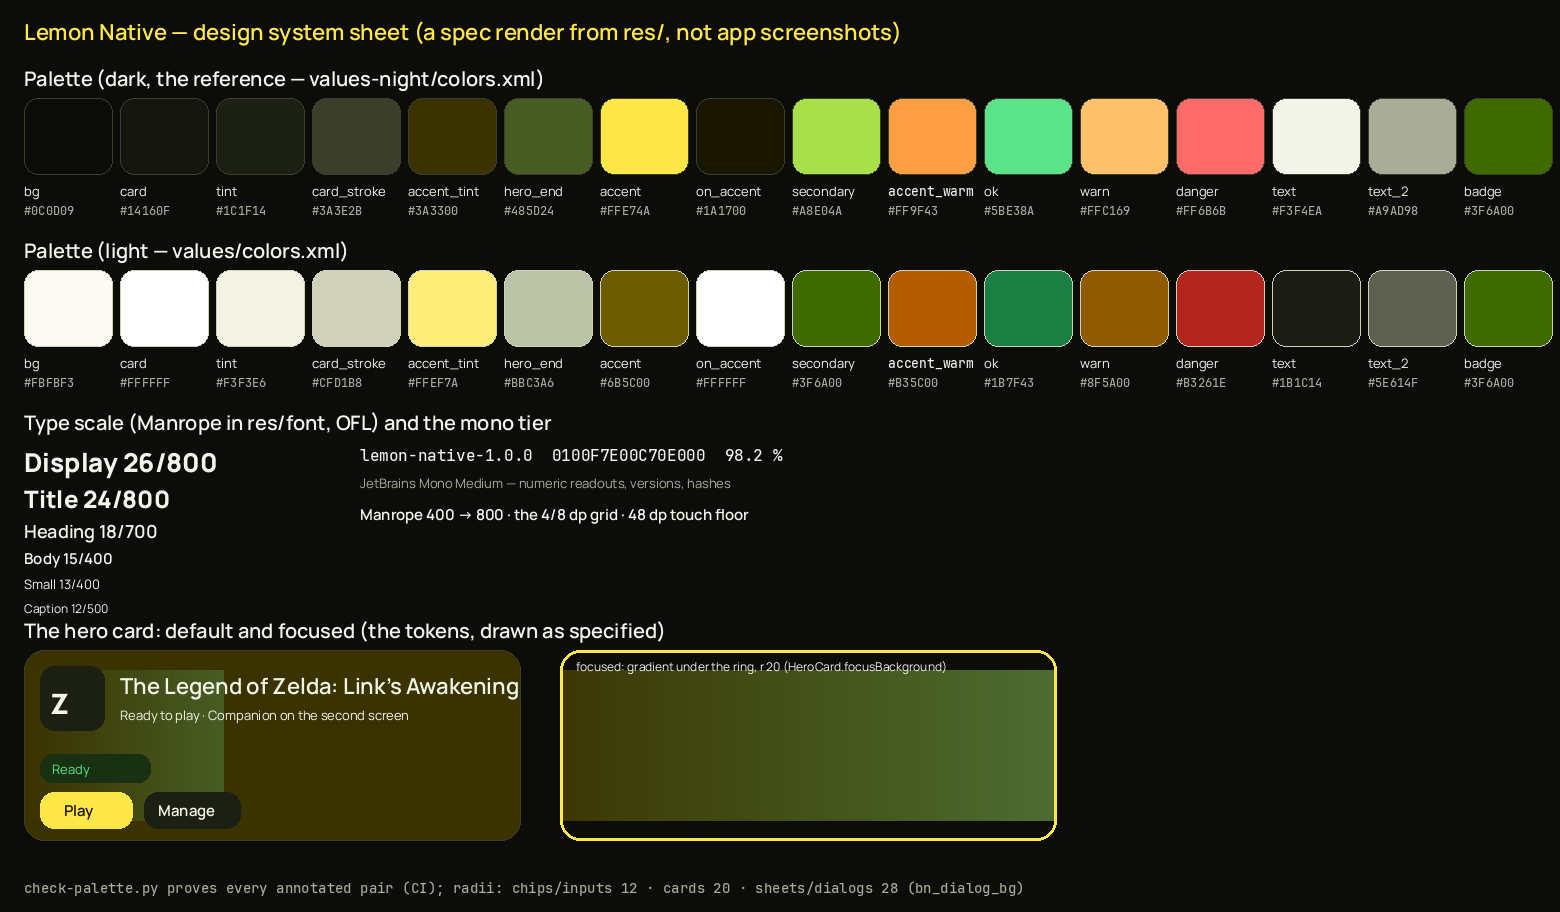
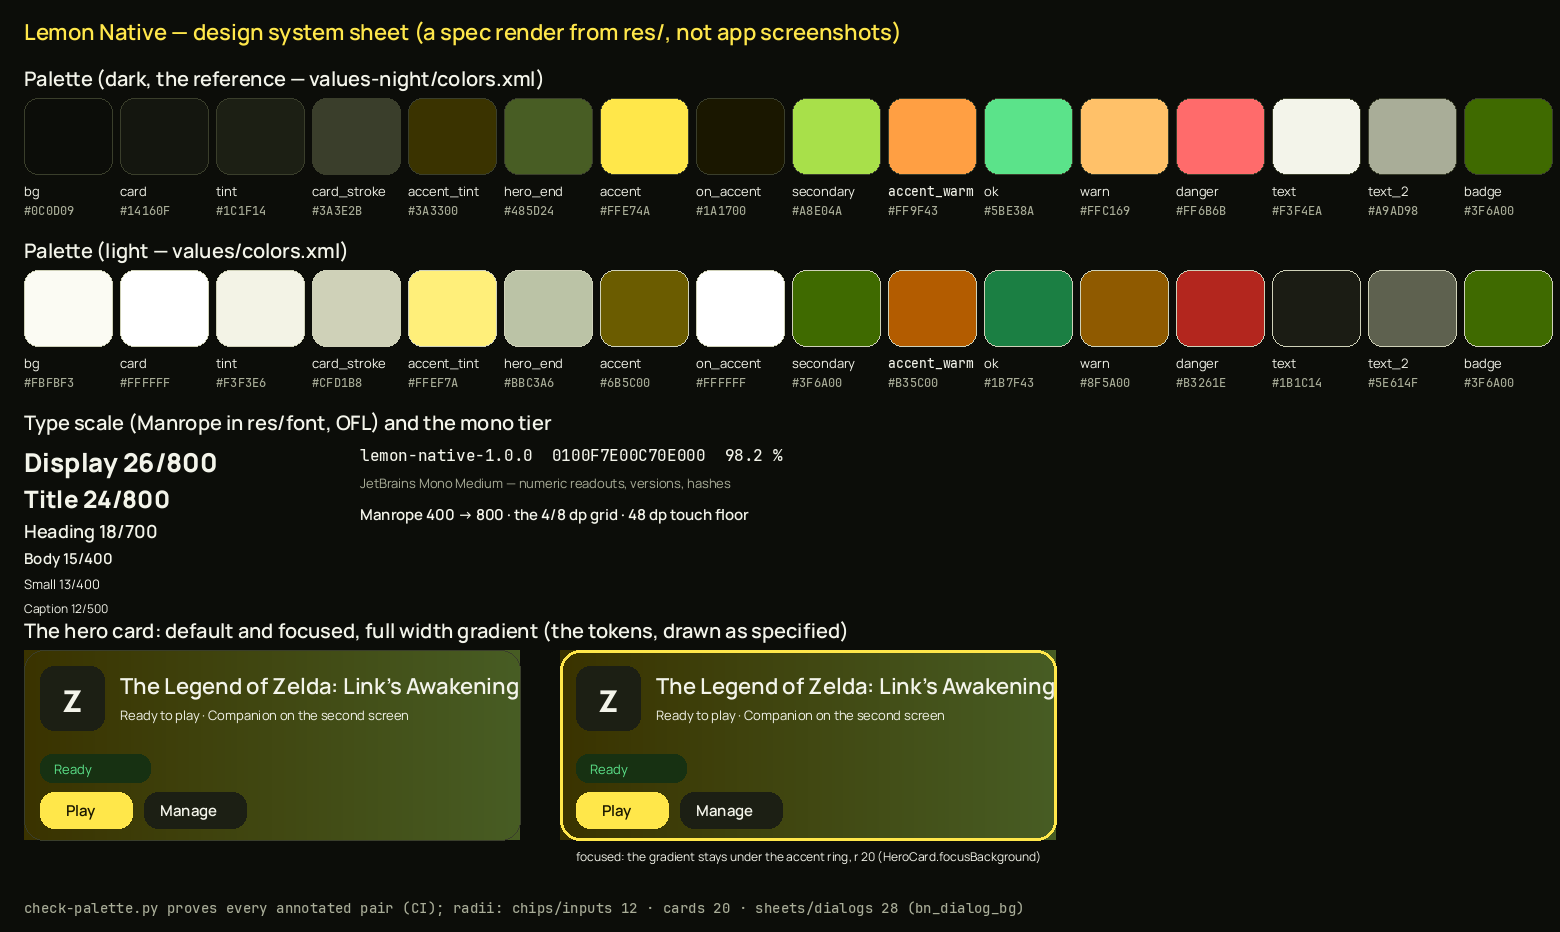
ui(round-04): the sheet is faithful and cited, the dark annotation matches the checker
- docs/images/lemon-design-sheet.png regenerated: the hero mock now draws the full-width gradient and the
  complete card in BOTH states (round 3's Grave — the ramp covered a fifth of the card and the focused
  card had no content); the sheet stays a spec render from the palette resources and the shipped fonts
- the sheet is cited where the round-3 commit claimed it would be: DESIGN-ui section 4 and
  docs/design-system.md name it as this environment's visual evidence (a spec render, not app screenshots)
- bn_hero_end's dark annotation says 6.6:1 (the checker's number); DESIGN-ui's dark bn_secondary row states
  the leaf-end's hue source role; DESIGN-ui section 4 now enounces the no-direct-label-on-the-gradient rule
- HeroCard.focusBackground builds a second gradient instance for the focused layer, so the two states
  never share a drawable
- scorecard: the round-3 row lands with its runs; the round-3 Critic report is recorded verbatim

diff --git a/android/app/src/main/java/dev/peanuts/ui/components/HeroCard.java b/android/app/src/main/java/dev/peanuts/ui/components/HeroCard.java
@@ -99,8 +99,12 @@ public final class HeroCard {
         android.graphics.drawable.GradientDrawable ring = new android.graphics.drawable.GradientDrawable();
         ring.setCornerRadius(PUi.dp(a, Tokens.RADIUS_LG));
         ring.setStroke(PUi.dp(a, 3), PUi.col(a, R.color.bn_accent));
+        android.graphics.drawable.GradientDrawable body = new android.graphics.drawable.GradientDrawable(
+                android.graphics.drawable.GradientDrawable.Orientation.TL_BR,
+                new int[]{PUi.col(a, R.color.bn_accent_tint), PUi.col(a, R.color.bn_hero_end)});   // a second instance: the two states never share a drawable
+        body.setCornerRadius(PUi.dp(a, Tokens.RADIUS_LG));
         android.graphics.drawable.LayerDrawable focused = new android.graphics.drawable.LayerDrawable(
-                new android.graphics.drawable.Drawable[]{g, ring});
+                new android.graphics.drawable.Drawable[]{body, ring});
         android.graphics.drawable.StateListDrawable s = new android.graphics.drawable.StateListDrawable();
         s.addState(new int[]{android.R.attr.state_focused}, focused);
         s.addState(new int[0], g);

diff --git a/docs/ui-scorecard.md b/docs/ui-scorecard.md
@@ -8,7 +8,8 @@ per round (build-apk.yml = the APK, peanuts.yml = the fork's checks + the palett
 |---|---|---|---|---|---|
 | 0 (baseline) | `3647c8c` rebrand | — (no UI round: the renamed upstream, CI baseline) | — | build-apk: fixed after 44924410924's compile error (Signer brace) and 44924993648's res/font license error, then green (job 44926143837's "GPL APK", 5m55s; the run stays open 1 h by the expire job by design); peanuts green (44924993605) | — |
 | 1 | `2d2eba7` + `24fdea1` (compile fix, brief 7.1) | **6.9** (média ponderada recomputada pelo Crítico) | nenhum (< 5: não houve) |
-| 2 | `31507a7` + `0e86711` (compile fix, brief 7.1) | **7.4** (Δ +0.5) | nenhum (mínimo 6.5) | 1ª subida quebrou o compile (mono fallback pedindo a fonte apagada, run 44930204099); HEAD verde: apk job 44930627236, peanuts 44930627252 | abaixo, após o relatório da rodada 1 | apk job green: 44928256881 (run 44927648571 failed on the round's compile: Haptics visibility, PUi.face's public, the hero's shadowed local, HeroCard's tile params); peanuts green: 44928256899 | below |
+| 2 | `31507a7` + `0e86711` (compile fix, brief 7.1) | **7.4** (Δ +0.5) | nenhum (mínimo 6.5) | 1ª subida quebrou o compile (mono fallback pedindo a fonte apagada, run 44930204099); HEAD verde: apk job 44930627236, peanuts 44930627252 | abaixo, após o relatório da rodada 1 |
+| 3 | `18c5101` | **7.9** (Δ +0.5) | nenhum (mínimo 6.5) | verde no primeiro push: apk job 44932920431, peanuts 44932920438 | abaixo, após o relatório da rodada 2 | apk job green: 44928256881 (run 44927648571 failed on the round's compile: Haptics visibility, PUi.face's public, the hero's shadowed local, HeroCard's tile params); peanuts green: 44928256899 | below |
 
 ## Round 1 — ui(round-01): the Lemon design system
 
@@ -133,3 +134,42 @@ Baseline 3647c8c → HEAD: (1) paleta Signal blue → Lemon olive-charcoal/limã
 
 ### Veredito
 **Continuar.** A rodada 3 precisa: consertar o Manage no gradiente (e ensinar o par ao script), consertar o fundo focado do hero, zerar alegações que não estão no diff, registrar a linha da rodada no scorecard — e apresentar a primeira imagem renderizada, sem a qual identidade visual segue sem nota acima de 8.
+
+## Round 3 — Relatório do Crítico (verbatim, sub-agente isolado)
+
+## Rodada 03 — Nota final: 7.9 / 10   (rodada anterior: 7.4, Δ +0.5)
+
+### Notas por critério
+| Critério | Nota | Justificativa (1 linha) |
+|---|---|---|
+| Identidade visual e coesão (15%) | 8.0 | Nenhum rótulo sobre o gradiente e o hero com foco próprio (HeroCard.java:94-108) — a identidade em código é a mais coerente das 3 rodadas; a primeira imagem do programa existe e a paleta dela bate pixel-a-pixel com `values[-night]`, mas a seção hero da folha desenha o próprio componente consertado de forma defeituosa (ver Falhas). |
+| Layout e hierarquia (15%) | 7.0 | Nenhuma mudança de layout no código (o Manage só trocou de Kind); na folha, o conteúdo do card default fica espremido na metade esquerda com a direita plana — a hierarquia segue sem prova fiel em vidro. |
+| Navegação e fluxo UX (15%) | 8.0 | O D-pad agora chega a um hero que mantém a superfície: `focusBackground` empilha o gradiente sob anel accent de 3 dp no raio do cartão (20 dp), `focusRing` removido do hero e os demais call sites são chips/botões (Library.java:837,849,993); guarda da linha 859 e wiring intactos. |
+| Cor e contraste (10%) | 8.5 | Rodei `check-palette.py`: PALETTE OK, 60 verificações (33 claro + 27 escuro), pares iguais aos da rodada 2; recalculei à mão — bn_text/bn_hero_end claro 9.38 (anotação 9.4 ✓), bn_banana/bn_card 2.38 (anotação "2.4:1 informational" ✓), o 3.63:1 morreu com o uso; anel accent vs fim folha 5.85 escuro / 3.63 claro ≥ 3:1 (forma); mas a anotação escura de bn_hero_end ainda diz 6.5:1 (real 6.61). |
+| Tipografia (10%) | 8.5 | Verifiquei com fontTools antes/depois: as 5 Manrope agora trazem família/estilo/peso verdadeiros (ExtraBold 800, Regular 400…; antes nameID1 "Manrope ExtraLight" em todos), jbmono_medium usWeightClass 436→500 + subfamily Medium; a folha desenha os glifos com as fontes embarcadas. |
+| Eficiência e desempenho (10%) | 8.5 | Nenhum trabalho de performance; `focusBackground` custa 3 drawables a mais por hero (negligível, construído uma vez); primeira rodada que abre verde no primeiro push (nenhum compile-fix). |
+| Handheld, dual-screen e gamepad (10%) | 8.0 | O foco do gamepad é agora a história certa no código (estado focado dono da superfície, raio do cartão, anel ≥ 3:1 nos dois modos); continua sem prova em execução. |
+| Movimento e feedback (5%) | 7.5 | Motion intocado; banda 150–300 ms e reduced-motion preservados; háptica HEAVY no tap / CLICK no Manage sem mudança. |
+| Acessibilidade e i18n (5%) | 8.5 | `contentDescription` segue a legenda visível com a variante companion (Library.java:866-867, strings já em en+pt-BR) — polimento da rodada 2 fechado; resta o chip fixo "Ready to play" divergindo da legenda no modo companion. |
+| Qualidade de código e componentes (5%) | 6.5 | Correções reais nos sitios nomeados e CI verde de primeira; mas a mensagem do commit torna a alegar coisa fora do diff ("the scorecard and DESIGN-ui cite it" — grep `lemon-design-sheet` = zero em todos os arquivos) e os docs ficaram dessincronizados. |
+
+**Média ponderada recomputada:** 1.20+1.05+1.20+0.85+0.85+0.85+0.80+0.375+0.425+0.325 = **7.9**
+
+### Travas aplicadas
+- **Build vermelho na rodada: NÃO — pela primeira vez.** APK job green no HEAD (run 44932920431) e peanuts green (44932920438) na primeira subida.
+- **Regressão funcional: NÃO encontrada** (guarda do hero e os 6 fluxos do §3 de pé; contrato Ui/PUi intacto; testes JVM OK).
+- **Critério < 5: NÃO** (mínimo 6.5). **Bookkeeping: OK** (linha + relatório da rodada 2 presentes).
+
+### Falhas
+**[BLOQUEANTE]** nenhuma.
+**[GRAVE]** Mensagem do commit 18c5101 — "the scorecard and DESIGN-ui cite it": grep `lemon-design-sheet` = zero ocorrências; a folha é um arquivo órfão. Correção: citá-la em DESIGN-ui §4 e no scorecard, ou retirar a frase.
+**[GRAVE]** docs/images/lemon-design-sheet.png — a seção hero desenha o componente de forma defeituosa (gradiente só na metade esquerda no card default; card focado sem conteúdo). O restante é fiel (32/32 swatches pixel-a-pixel com os recursos; rótulo honesto de spec render). Correção: regerar com o herói fiel nos dois estados.
+**[MODERADA]** Anotação escura de bn_hero_end: diz 6.5:1, o script imprime 6.61:1. Correção: 6.6.
+**[MODERADA]** Evidência em execução segue impossível (sem SDK/emulador) — o spec render é resposta parcial à condição 7.2.
+**[POLIMENTO]** design-system.md ainda diz "wires the focus ring" do hero; DESIGN-ui §4 não enuncia a regra "nenhum rótulo direto no gradiente"; linha escura de bn_secondary no DESIGN-ui com o papel antigo; name tables não-RIBBI (inócuo para Android); a mesma instância `g` do gradiente compartilhada entre estados em focusBackground.
+
+### O que melhorou desde a última rodada (com evidência)
+Manage com superfície própria provado no diff; foco dono da superfície provado no diff; bn_banana no diff desta vez; anotação clara 9.4 honesta; fontes com metadados verdadeiros (fontTools antes/depois); contentDescription com variante companion; bn_ok_tint escuro nomeia StatusChip.OK; primeiros pixels do programa (folha fiel na paleta, rotulada como spec render); primeira rodada verde no primeiro push.
+
+### Veredito
+**Continuar.** A rodada 4 precisa: (a) regerar a folha com o herói fiel nos dois estados e citá-la de fato em DESIGN-ui/scorecard; (b) zerar a anotação escura 6.5→6.6 e sincronizar os três pontos de doc; (c) apresentar o app rodando — sem isso identidade fica limitada a 8 e o programa não fecha.

diff --git a/docs/design-system.md b/docs/design-system.md
@@ -9,7 +9,7 @@ The single source the screens read from, and where each piece lives. The design 
 | Brief's layer | Where it lives | Notes |
 |---|---|---|
 | `ui/theme` | `res/values/colors.xml` + `values-night/colors.xml` (palette), `Tokens.java` (grid, radii, type scale, touch floor), `res/font/` + `dev/peanuts/ui/theme/LemonType.java` (type) | The palette keeps the historical `bn_*` resource names (hundreds of call sites), now carrying the Lemon values; dark is the reference set in `values-night`. |
-| `ui/components` | `dev/peanuts/ui/components/` — `StatusChip`, `HeroCard`, `BuildStepper`; the shared builders are `Ui.java`/`PUi.java` (buttons, cards, rows, headers, sheets, empty state) | `LemonButton` ≙ `PUi.button` (Kind.PRIMARY is the page's one filled accent); `LemonCard` ≙ `PUi.card`; `LemonTopBar` ≙ `Ui.header`. New screens must compose from these, not re-draw their own. |
+| `ui/components` | `dev/peanuts/ui/components/` — `StatusChip`, `HeroCard`, `BuildStepper`; the shared builders are `Ui.java`/`PUi.java` (buttons, cards, rows, headers, sheets, empty state) | `LemonButton` ≙ `PUi.button` (Kind.PRIMARY is the page's one filled accent); `LemonCard` ≙ `PUi.card`; `LemonTopBar` ≙ `Ui.header`. New screens must compose from these, not re-draw their own. The visual evidence in this SDK-less environment is the spec render `docs/images/lemon-design-sheet.png` (from the palette resources and the shipped fonts; not app screenshots). |
 | `ui/screens` | `MainActivity` (Home library + Settings), `GameSheet`, `DriverActivity`, `ReadinessActivity`, `SelftestActivity`, `CatalogActivity`, the game page (`GameSettings`), the companion surfaces (`GameScreen`, `BottomPanel`, `CompanionPage`) | The full screen/flow map is `docs/ui-audit.md`; functional parity with it is a hard gate per round. |
 | `ui/navigation` | `MainActivity.page(...)` (single-task, two pages deep) + the header actions + the second display's `BottomScreen` | The handheld has no bottom bar: D-pad/gamepad focus (`PadFocus` + `Ui` focus ring) is the navigation; A confirms, B backs, Y is the row's second action, L1/R1 step the library's filters. |
 
@@ -29,7 +29,7 @@ The single source the screens read from, and where each piece lives. The design 
 | Component | File | Contract |
 |---|---|---|
 | `StatusChip` | `dev/peanuts/ui/components/StatusChip.java` | A state pill in a semantic container (OK/BUILD/WARN/ERROR/NEUTRAL); informational, never a filled accent, never clickable; `chipNumeric` for readouts (JetBrains Mono Medium, no synthetic bold). Call sites today: the hero's Ready chip and the stepper's pills; the covers' pills stay on the legacy `mark()` path until their screen round. |
-| `HeroCard` | `dev.peanuts.ui.components.HeroCard` | The library's "Continue playing" card: the last-used Ready game, title-tier name, cover icon, a Ready `StatusChip`, Play (the page's one filled accent) + Manage. The design's only gradient surface; its ends are the checked resources `bn_accent_tint` and `bn_hero_end`, and the card's text is `bn_text` (`bn_text_2` misses AA there and is forbidden). The card is one focus stop: Library makes it focusable/clickable and wires the focus ring, haptics and keys. |
+| `HeroCard` | `dev.peanuts.ui.components.HeroCard` | The library's "Continue playing" card: the last-used Ready game, title-tier name, cover icon, a Ready `StatusChip`, Play (the page's one filled accent) + Manage. The design's only gradient surface; its ends are the checked resources `bn_accent_tint` and `bn_hero_end`, and the card's text is `bn_text` (`bn_text_2` misses AA there and is forbidden). The card is one focus stop: Library makes it focusable/clickable and wires the haptics and keys; the card owns its focused look (`focusBackground`: the gradient under the accent ring at the card's radius). |
 | `BuildStepper` | `dev.peanuts.ui/components.BuildStepper` | Import → Prepare → Companion pills; success/accent/danger by state; unknown steps degrade to the card's status line. |
 | Appearance section | `dev.peanuts.settings.AppearanceSection` | Settings › Appearance: Dark (default and first run), Light, Follow system — applied per-app via `UiModeManager.setApplicationNightMode`. |
 

diff --git a/peanuts/DESIGN-ui.md b/peanuts/DESIGN-ui.md
@@ -41,8 +41,8 @@ runs on every push — a palette change that breaks a pair breaks the build.
 | `bn_accent` | `#FFE74A` | primary accent: fills, focus ring, links, quiet buttons (15.6:1 on bg, 14.6:1 on card, 10.2:1 on accent_tint, 8.8:1 vs stroke) |
 | `bn_on_accent` | `#1A1700` | label on accent fill (14.4:1) |
 | `bn_accent_tint` | `#3A3300` | tonal accent container: selected segments, chips (accent on it 10.2:1) |
-| `bn_hero_end` | `#485D24` | the hero gradient's leaf end (bn_text on it 6.5:1; `bn_text_2` misses AA there and is forbidden) |
-| `bn_secondary` | `#A8E04A` | leaf green support: hero gradient end, secondary chips (12.5:1 on bg, 11.7:1 on card) |
+| `bn_hero_end` | `#485D24` | the hero gradient's leaf end (bn_text on it 6.6:1; `bn_text_2` misses AA there and is forbidden) |
+| `bn_secondary` | `#A8E04A` | leaf green support: secondary chips, the hero gradient's leaf end's hue source (12.5:1 on bg, 11.7:1 on card) |
 | `bn_accent_warm` | `#FF9F43` | citric warm accent: update-available chips, warm highlights (8.9:1 on card) |
 | `bn_banana` | `#FFE74A` | brand accent, brand moments only (the header badge's glyph, the empty state): never a button fill |
 | `bn_banana_deep` | `#E8D11E` | pressed brand accent |
@@ -116,6 +116,11 @@ lemon palette (`bn_overlay_accent` = the lemon yellow, 14.7:1 on the overlay car
   Companion as pills — done in the success text, running in the accent container, stopped in the danger
   container; an unknown step degrades to the card's status line, nothing is invented. The pills rebuild
   only when the step moves, not on every progress tick.
+- **The gradient carries no direct label**: everything drawn on the hero's ramp is proven by the checker's
+  hero pairs (bn_text on both ends) and both actions carry their own surfaces (PRIMARY/TONAL); the hero's
+  focused state keeps the gradient under the ring (`HeroCard.focusBackground`). The design system's visual
+  evidence in this SDK-less environment is the spec render `docs/images/lemon-design-sheet.png` (generated
+  from the palette resources and the shipped fonts; explicitly not app screenshots).
 - The library leads with the **hero** (`dev.peanuts.ui.components.HeroCard`, "Continue playing"): the
   last-used Ready game at the top of Home, Play one tap away (the brief's two-tap rule). The card itself is
   one focus stop (clickable, focusable, A plays like a cover tap) and its caption lines draw in `bn_text`:
